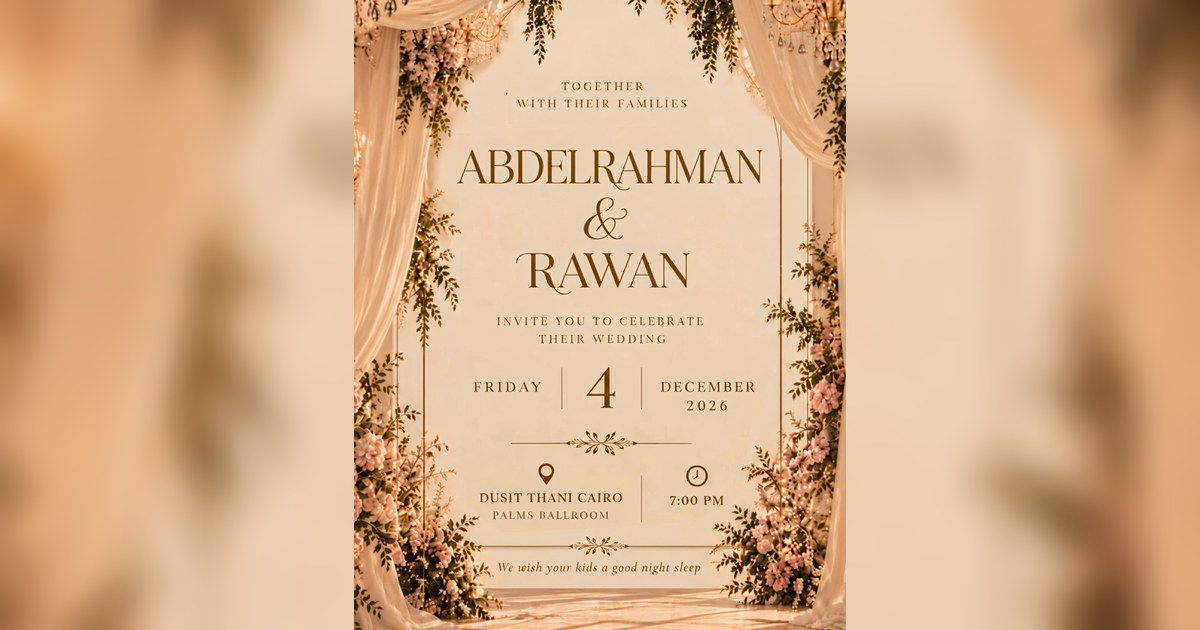
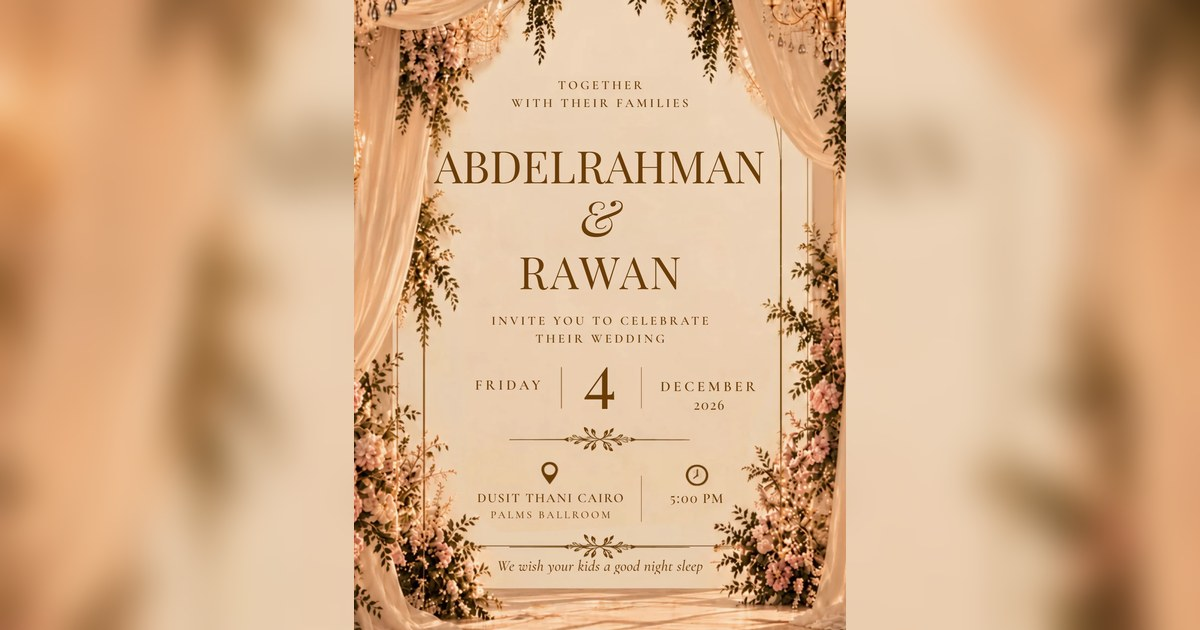
gqwYc45 بطلب المالك: (1) الفرح الساعة 5 مساءً بدل 7 — على الكارت وفي قسم المكان ووصف اللينك وكارت لينك المشاركة (اتعمل من جديد من الكارت)، والعدّاد (oneOffFix gqwYc45-time-5pm: 4/12/2026 17:00، مرة واحدة). (2) قسم الآية فوق العدّاد على طول: بسم الله الرحمن الرحيم وآية سورة الروم 21 «وَمِنْ آيَاتِهِ 
Claude-Session: https://claude.ai/code/session_01VKo1mDPNtVn8Qfu3XE46sB

diff --git a/custom-invitations/gqwYc45.html b/custom-invitations/gqwYc45.html
@@ -8,7 +8,7 @@
 <title>Abdelrahman &amp; Rawan — Wedding Invitation</title>
 <link rel="preconnect" href="https://fonts.googleapis.com">
 <link rel="preconnect" href="https://fonts.gstatic.com" crossorigin>
-<link href="https://fonts.googleapis.com/css2?family=Playfair+Display:ital,wght@0,400;0,500;1,400&family=Cormorant+Garamond:ital,wght@0,500;0,600;0,700;1,500;1,600&display=swap" rel="stylesheet">
+<link href="https://fonts.googleapis.com/css2?family=Amiri+Quran&family=Playfair+Display:ital,wght@0,400;0,500;1,400&family=Cormorant+Garamond:ital,wght@0,500;0,600;0,700;1,500;1,600&display=swap" rel="stylesheet">
 <link rel="preload" as="image" href="assets/cover.webp">
 <link rel="preload" as="image" href="assets/card-bg.webp">
 <style>
@@ -89,6 +89,13 @@ h1,h2,p{margin:0;font-weight:inherit}
 .fx{opacity:0;transform:translateY(22px);transition:opacity .9s ease,transform .9s cubic-bezier(.22,.8,.3,1)}
 .fx.in{opacity:1;transform:none}
 .static .fx{opacity:1;transform:none}
+/* الآية */
+.verse{padding-top:56px;padding-bottom:34px}
+.verse .bsm{font:400 26px/1.9 'Amiri Quran','Amiri',serif;color:var(--ink);margin-top:4px}
+.verse .ay{font:400 23px/2.25 'Amiri Quran','Amiri',serif;color:var(--ink);margin:10px auto 0;max-width:380px}
+.verse .sr{font:400 15px/1.6 'Amiri Quran','Amiri',serif;color:var(--ink2);opacity:.8;margin-top:8px}
+.verse .tr{font:italic 500 17px/1.55 var(--serif);color:var(--ink2);margin:14px auto 0;max-width:340px}
+.verse+.sec{padding-top:34px}
 /* العدّاد */
 .cd{display:grid;grid-template-columns:repeat(4,1fr);gap:10px;margin-top:26px}
 .cd div{padding:14px 0 12px;border:1px solid rgba(107,60,6,.28);background:rgba(255,248,238,.45);position:relative}
@@ -181,7 +188,7 @@ h1,h2,p{margin:0;font-weight:inherit}
       <p class="t cap rv" style="top:78.95%;left:40.75%;right:auto;transform:translate(-50%,-50%);font-size:1.98cqw;font-weight:500;letter-spacing:.2em;--d:3.85s">Palms Ballroom</p>
       <i class="vl rv" style="left:57.64%;top:74.8%;height:4.9%;--d:3.9s" aria-hidden="true"></i>
       <img class="ic rv" src="assets/clock.webp" alt="" style="left:68.06%;top:74.8%;width:4.58%;--d:4s">
-      <p class="t cap rv" style="top:77.4%;left:68%;right:auto;transform:translate(-50%,-50%);font-size:2.62cqw;letter-spacing:.06em;padding-left:.06em;--d:4.1s"><span class="dg">7:00</span> PM</p>
+      <p class="t cap rv" style="top:77.4%;left:68%;right:auto;transform:translate(-50%,-50%);font-size:2.62cqw;letter-spacing:.06em;padding-left:.06em;--d:4.1s"><span class="dg">5:00</span> PM</p>
       <i class="hl rv" style="top:82.23%;--d:4.35s" aria-hidden="true"></i><img class="orn rv" src="assets/orn.webp" alt="" style="top:82.23%;width:34.24%;--d:4.35s">
       <p class="t kid rv" style="top:84.34%;--d:4.6s">We wish your kids a good night sleep</p>
     </div>
@@ -189,6 +196,16 @@ h1,h2,p{margin:0;font-weight:inherit}
   </section>
 
   <div class="page">
+    <!-- الآية (بطلب المالك 2026-11-11): سورة الروم 21 فوق العدّاد — رسم عثماني بالتشكيل والأقواس، والترجمة تحتها -->
+    <section class="sec verse fx" lang="ar">
+      <img class="ornimg" src="assets/orn.webp" alt="">
+      <p class="bsm" dir="rtl">بِسْمِ اللَّهِ الرَّحْمَٰنِ الرَّحِيمِ</p>
+      <p class="ay" dir="rtl">﴿ وَمِنْ آيَاتِهِ أَنْ خَلَقَ لَكُم مِّنْ أَنفُسِكُمْ أَزْوَاجًا لِّتَسْكُنُوا إِلَيْهَا وَجَعَلَ بَيْنَكُم مَّوَدَّةً وَرَحْمَةً ۚ إِنَّ فِي ذَٰلِكَ لَآيَاتٍ لِّقَوْمٍ يَتَفَكَّرُونَ ﴾</p>
+      <p class="sr" dir="rtl">سورة الروم · ٢١</p>
+      <p class="tr" lang="en">“And among His signs is that He created for you spouses from among yourselves, that you may find tranquillity in them; and He placed between you affection and mercy.”</p>
+      <img class="ornimg" src="assets/orn.webp" alt="">
+    </section>
+
     <!-- 3) العدّاد -->
     <section class="sec fx">
       <h2 class="h">Counting down</h2>
@@ -210,7 +227,7 @@ h1,h2,p{margin:0;font-weight:inherit}
       <img class="pin" src="assets/pin.webp" alt="">
       <p class="vn">Dusit Thani Cairo</p>
       <p class="vh">Palms Ballroom</p>
-      <p class="vw">Friday, <span class="dg">4</span> December <span class="dg">2026</span> · <span class="dg">7:00</span> PM</p>
+      <p class="vw">Friday, <span class="dg">4</span> December <span class="dg">2026</span> · <span class="dg">5:00</span> PM</p>
       <a class="btn" href="__MAP_LINK__" target="_blank" rel="noopener noreferrer"><span><svg viewBox="0 0 24 24" fill="currentColor" aria-hidden="true"><path d="M12 2.5a7 7 0 0 0-7 7c0 5 7 12 7 12s7-7 7-12a7 7 0 0 0-7-7Zm0 9.6a2.6 2.6 0 1 1 0-5.2 2.6 2.6 0 0 1 0 5.2Z"/></svg>View location</span></a>
     </section>
 

diff --git a/custom-invitations/gqwYc45.js b/custom-invitations/gqwYc45.js
@@ -1,4 +1,4 @@
-// دعوة gqwYc45 — Abdelrahman & Rawan (الجمعة 4 ديسمبر 2026 الساعة 7 مساءً، Dusit Thani Cairo — Palms Ballroom).
+// دعوة gqwYc45 — Abdelrahman & Rawan (الجمعة 4 ديسمبر 2026 الساعة 5 مساءً — كانت 7 واتغيّرت بطلب المالك 2026-11-11، Dusit Thani Cairo — Palms Ballroom).
 // بطلب المالك (2026-11-11): نفس الدعوة اللي في الفيديو اللي بعته (AR.mp4) — ظرف بورد وختم شمع A&R (أول فريم = الغلاف)،
 // الضغط بيشغّل فتح الضلفتين من الفيديو نفسه (1.2 ثانية)، وبعدها القوس بالستاير والخضرة والنجف (آخر فريم والكلام اتشال
 // منه بـ LaMa — scratch gq/) والكلام بيظهر سطر سطر فوقه بنفس الأماكن والخطوط (Playfair Display + Cormorant Garamond)
@@ -40,7 +40,7 @@ module.exports = {
     height: 630,
     overrideImage: true,
     title: 'Abdelrahman & Rawan — Wedding Invitation',
-    description: 'Friday, 4 December 2026 · 7:00 PM · Dusit Thani Cairo — Palms Ballroom',
+    description: 'Friday, 4 December 2026 · 5:00 PM · Dusit Thani Cairo — Palms Ballroom',
   },
 
   render() {
@@ -52,7 +52,7 @@ module.exports = {
     let out = PAGE;
     const link = configValue(templateHtml, 'venueMapDirectLink');
     const song = configValue(templateHtml, 'audioUrl');
-    const start = configValue(templateHtml, 'weddingDateTimeISO') || '2026-12-04T17:00:00.000Z';
+    const start = configValue(templateHtml, 'weddingDateTimeISO') || '2026-12-04T15:00:00.000Z';
     out = out.split('__MAP_LINK__').join(escapeHtml(okUrl(link) && !/query=Venue/.test(link) ? link : FALLBACK_LINK))
       .split('__SONG__').join(escapeHtml(okUrl(song) ? song : DEFAULT_SONG))
       .split('__START__').join(escapeHtml(start));

diff --git a/utils/oneOffFixes.js b/utils/oneOffFixes.js
@@ -1389,6 +1389,18 @@ const FIXES = [
     },
   },
   {
+    // gqwYc45 — المالك (2026-11-11): الفرح الساعة 5 مساءً مش 7 (العدّاد والبيانات) — نفس اليوم 4/12/2026. مرة واحدة.
+    name: 'gqwYc45-time-5pm',
+    shortId: 'gqwYc45',
+    select: 'customizations weddingDateTime',
+    when: (c, inv) => {
+      if (!inv.weddingDateTime) return false;
+      const iso = new Date(inv.weddingDateTime).toISOString();
+      return iso.slice(0, 10) === '2026-12-04' && iso !== '2026-12-04T17:00:00.000Z';
+    },
+    apply: () => ({ weddingDateTime: new Date('2026-12-04T17:00:00.000Z') }),
+  },
+  {
     // r1X0Neh — المالك (2026-11-10، مستعجل): الفرح الساعة 5 مساءً مش 7 (العدّاد والتقويم عليها) — نفس اليوم 23/11/2026.
     // أي ساعة تانية في نفس اليوم (اللايف كان 6 مش 7) → 5. بعد ما تتظبط الشرط مابيتحققش تاني.
     name: 'r1X0Neh-time-5pm',
